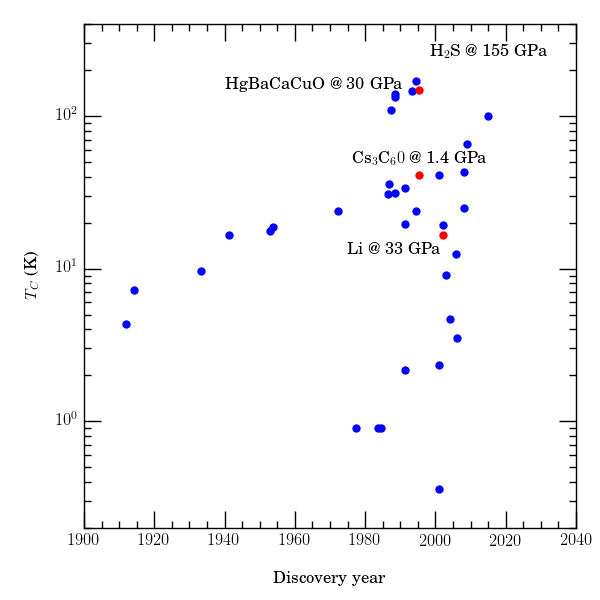
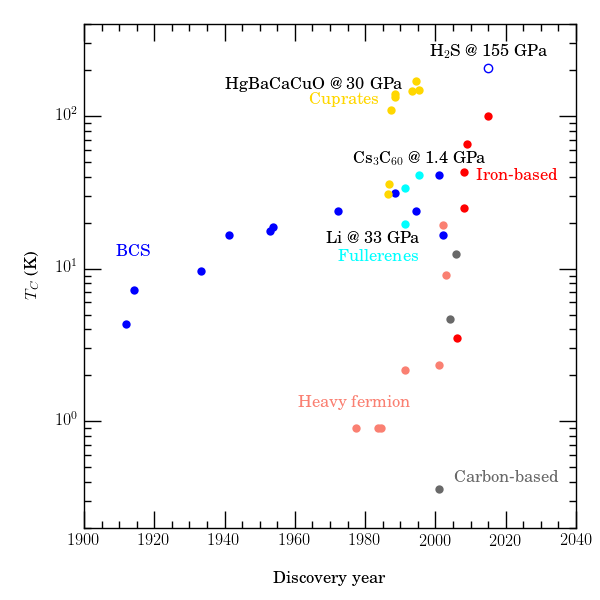
Updates to colors and labeling in sfluid.py.

diff --git a/sfluid.py b/sfluid.py
@@ -51,44 +51,53 @@ def tptr(x):
         tptr=x*2-200
     return tptr
 
-dat=[['Hg',0.299320,10.859729,1,1],
-     ['Pb',0.353741,18.099548,1,1],
-     ['Nb',0.829932,23.981900,1,1],
-     ['NbN',1.034014,41.628959,1,1],
-     ['V3Si',1.319728,43.891403,1,1],
-     ['Nb3Sn',1.346939,46.606335,1,1],
-     ['Nb3Ge',1.809524,59.728507,1,1],
-     ['BKBO',3.687075,77.828054,1,1],
-     [r'YbPd2B$_2$C',4.870748,59.276018,1,1],
-     ['MgB2',6.217687,103.167421,1,1],
-     [r'CeCu$_2$Si$_2$',1.931973,2.262443,1,1],
-     ['UBe13',2.707483,2.262443,1,1],
-     ['UPt3',2.911565,2.262443,1,1],
-     ['UPd2Al3',4.285714,5.429864,1,1],
-     ['CeCoIn5',6.231293,5.882353,1,1],
-     ['PuCoGa5',6.421769,48.416290,1,1],
-     ['PuRhGa5',6.612245,22.624434,1,1],
-     ['LaBaCuO',3.306122,77.375566,1,1],
-     ['YBaCuO',3.496599,154.298643,1,1],
-     ['BiSrCaCuO',3.687075,166.515837,1,1],
-     ['TlBaCaCuO',3.700680,169.230769,1,1],
-     ['HgBaCaCuO',4.666667,172.398190,1,1],
-     ['HgTlBaCaCuO',4.870748,185.067873,1,1],
-     ['LaSrCuO',3.350000,90,1,1],
-     ['K3C60',4.272109,48.868778,1,1],
-     ['RbCsC60',4.272109,84.615385,1,1],
-     ['CNT',6.217687,0.904977,1,1],
-     ['diamond',6.816327,11.764706,1,1],
-     ['CNT',7.197279,31.221719,1,1],
-     ['LaOFeP',7.200000,8.750000,1,1],
-     ['LaOFFeAs',7.600000,62.500000,1,1],
-     ['SrFFeAs',7.800000,132.579186,1,1],
-     ['FeSe film',9,150,1,1],
-     ['SmOFFeAs',7.600000,107.500000,1,1],
-     [r'Cs$_3$C$_60$ @ 1.4~GPa',5.061224,102.262443,1,1.25],
-     ['HgBaCaCuO @ 30~GPa',5.047619,173.755656,0.985,1.1],
-     ['Li @ 33~GPa',6.421769,41.628959,0.993,0.8],
-     [r'H$_2$S @ 155~GPa',9,203,1,1.25]]
+dat=[
+# BCS superconductors
+    ['Hg',0.299320,10.859729,1,1,1,0],
+    ['Pb',0.353741,18.099548,1,1,1,0],
+    ['Nb',0.829932,23.981900,1,1,1,0],
+    ['NbN',1.034014,41.628959,1,1,1,0],
+    [r'V_3Si',1.319728,43.891403,1,1,1,0],
+    [r'Nb_3Sn',1.346939,46.606335,1,1,1,0],
+    [r'Nb_3Ge',1.809524,59.728507,1,1,1,0],
+    ['BKBO',3.687075,77.828054,1,1,1,0],
+    [r'YbPd2B$_2$C',4.870748,59.276018,1,1,1,0],
+    [r'MgB_2',6.217687,103.167421,1,1,1,0],
+# Heavy fermion superconductors
+    [r'CeCu$_2$Si$_2$',1.931973,2.262443,2,1,1,0],
+    [r'UBe_{13}',2.707483,2.262443,2,1,1,0],
+    [r'UPt_3',2.911565,2.262443,2,1,1,0],
+    [r'UPd_2Al_3',4.285714,5.429864,2,1,1,0],
+    [r'CeCoIn_5',6.231293,5.882353,2,1,1,0],
+    [r'PuCoGa_5',6.421769,48.416290,2,1,1,0],
+    [r'PuRhGa_5',6.612245,22.624434,2,1,1,0],
+# Cuprates
+    ['LaBaCuO',3.306122,77.375566,3,1,1,0],
+    ['YBaCuO',3.496599,154.298643,3,1,1,0],
+    ['BiSrCaCuO',3.687075,166.515837,3,1,1,0],
+    ['TlBaCaCuO',3.700680,169.230769,3,1,1,0],
+    ['HgBaCaCuO',4.666667,172.398190,3,1,1,0],
+    ['HgTlBaCaCuO',4.870748,185.067873,3,1,1,0],
+    ['HgBaCaCuO @ 30~GPa',5.047619,173.755656,3,0.985,1.1,1],
+    ['LaSrCuO',3.350000,90,3,1,1,0],
+# Fullerenes
+    [r'K_3C_{60}',4.272109,48.868778,4,1,1,0],
+    [r'RbCsC_{60}',4.272109,84.615385,4,1,1,0],
+    [r'Cs$_3$C$_{60}$ @ 1.4~GPa',5.061224,102.262443,4,1,1.25,1],
+# Carbon nanotubes and diamonds
+    ['CNT',6.217687,0.904977,5,1,1,0],
+    ['diamond',6.816327,11.764706,5,1,1,0],
+    ['CNT',7.197279,31.221719,5,1,1,0],
+# Iron-based superconductors
+     ['LaOFeP',7.200000,8.750000,6,1,1,0],
+     ['LaOFFeAs',7.600000,62.500000,6,1,1,0],
+     ['SrFFeAs',7.800000,132.579186,6,1,1,0],
+     ['FeSe film',9,150,6,1,1,0],
+     ['SmOFFeAs',7.600000,107.500000,6,1,1,0],
+# BCS superconductors at high pressure
+     ['Li @ 33~GPa',6.421769,41.628959,7,0.99,0.95,1],
+     [r'H$_2$S @ 155~GPa',9,203,7,1,1.25,1]
+]
 
 # Initial figure setup
 
@@ -116,13 +125,46 @@ x_scale=1.0
 plot.xlim([1900,2040])
 plot.ylim([2.0e-1,4.0e2])
         
-for i in range(0,len(dat)-4):
-    plot.semilogy(time(dat[i][1]),tptr(dat[i][2]),
-                  marker='o',mfc='Blue',mew=0)
-    if i<3:
-        ax.text(time(dat[i][1])*x_scale*dat[i][3],
-                tptr(dat[i][2])*y_scale*dat[i][4],dat[i][0],
-                fontsize=12,va='center',ha='center')
+for i in range(0,len(dat)):
+    if dat[i][6]==0:
+        if dat[i][3]==1:
+            plot.semilogy(time(dat[i][1]),tptr(dat[i][2]),
+                          marker='o',mfc='blue',mew=0)
+        elif dat[i][3]==2:
+            plot.semilogy(time(dat[i][1]),tptr(dat[i][2]),
+                          marker='o',mfc='salmon',mew=0)
+        elif dat[i][3]==3:
+            plot.semilogy(time(dat[i][1]),tptr(dat[i][2]),
+                          marker='o',mfc='gold',mew=0)
+        elif dat[i][3]==4:
+            plot.semilogy(time(dat[i][1]),tptr(dat[i][2]),
+                          marker='o',mfc='cyan',mew=0)
+        elif dat[i][3]==5:
+            plot.semilogy(time(dat[i][1]),tptr(dat[i][2]),
+                          marker='o',mfc='dimgray',mew=0)
+        elif dat[i][3]==6:
+            plot.semilogy(time(dat[i][1]),tptr(dat[i][2]),
+                          marker='o',mfc='red',mew=0)
+        elif dat[i][3]==7:
+            plot.semilogy(time(dat[i][1]),tptr(dat[i][2]),
+                      marker='o',mfc='blue',mew=0)
+        if i<3:
+            ax.text(time(dat[i][1])*x_scale*dat[i][4],
+                    tptr(dat[i][2])*y_scale*dat[i][5],dat[i][0],
+                    fontsize=12,va='center',ha='center',color='blue')
+
+ax.text(0.1,0.55,'BCS',transform=ax.transAxes,
+        fontsize=12,va='center',ha='center',color='blue')
+ax.text(0.55,0.25,'Heavy fermion',transform=ax.transAxes,
+        fontsize=12,va='center',ha='center',color='salmon')
+ax.text(0.53,0.85,'Cuprates',transform=ax.transAxes,
+        fontsize=12,va='center',ha='center',color='gold')
+ax.text(0.6,0.54,'Fullerenes',transform=ax.transAxes,
+        fontsize=12,va='center',ha='center',color='cyan')
+ax.text(0.86,0.1,'Carbon-based',transform=ax.transAxes,
+        fontsize=12,va='center',ha='center',color='dimgray')
+ax.text(0.88,0.7,'Iron-based',transform=ax.transAxes,
+        fontsize=12,va='center',ha='center',color='red')
 
 ax.text(0.5,-0.1,'Discovery year',
         transform=ax.transAxes,
@@ -131,6 +173,7 @@ ax.text(-0.1,0.5,r'$T_C$ (K)',rotation=90,
         transform=ax.transAxes,
         fontsize=12,va='center',ha='center')
 plot.savefig('sfluid1.png')        
+#plot.show()
 
 plot.clf()
 
@@ -148,19 +191,57 @@ plot.xlim([1900,2040])
 plot.ylim([2.0e-1,4.0e2])
 
 for i in range(0,len(dat)):
-    if i>=len(dat)-4:
-        ax.text(time(dat[i][1])*x_scale*dat[i][3],
-                tptr(dat[i][2])*y_scale*dat[i][4],dat[i][0],
-                fontsize=12,va='center',ha='center')
-        if i==len(dat)-1:
-            plot.semilogy(time(dat[i][1]),tptr(dat[i][2]),
-                          marker='o',mec='red',mfc='none',mew=0)
-        else:
-            plot.semilogy(time(dat[i][1]),tptr(dat[i][2]),
-                          marker='o',mfc='red',mew=0)
-    else:
+    if dat[i][6]==1:
+        if dat[i][3]==3:
+            ax.text(time(dat[i][1])*x_scale*dat[i][4],
+                    tptr(dat[i][2])*y_scale*dat[i][5],dat[i][0],
+                    fontsize=12,va='center',ha='center',color='black')
+        elif dat[i][3]==4:
+            ax.text(time(dat[i][1])*x_scale*dat[i][4],
+                    tptr(dat[i][2])*y_scale*dat[i][5],dat[i][0],
+                    fontsize=12,va='center',ha='center',color='black')
+        elif dat[i][3]==7:
+            ax.text(time(dat[i][1])*x_scale*dat[i][4],
+                    tptr(dat[i][2])*y_scale*dat[i][5],dat[i][0],
+                    fontsize=12,va='center',ha='center',color='black')
+    if dat[i][3]==1:
         plot.semilogy(time(dat[i][1]),tptr(dat[i][2]),
                       marker='o',mfc='blue',mew=0)
+    elif dat[i][3]==2:
+        plot.semilogy(time(dat[i][1]),tptr(dat[i][2]),
+                      marker='o',mfc='salmon',mew=0)
+    elif dat[i][3]==3:
+        plot.semilogy(time(dat[i][1]),tptr(dat[i][2]),
+                      marker='o',mfc='gold',mew=0)
+    elif dat[i][3]==4:
+        plot.semilogy(time(dat[i][1]),tptr(dat[i][2]),
+                      marker='o',mfc='cyan',mew=0)
+    elif dat[i][3]==5:
+        plot.semilogy(time(dat[i][1]),tptr(dat[i][2]),
+                      marker='o',mfc='dimgray',mew=0)
+    elif dat[i][3]==6:
+        plot.semilogy(time(dat[i][1]),tptr(dat[i][2]),
+                      marker='o',mfc='red',mew=0)
+    elif dat[i][3]==7:
+        if i==len(dat)-1:
+            plot.semilogy(time(dat[i][1]),tptr(dat[i][2]),
+                          marker='o',mfc='none',mew=1,mec='blue')
+        else:
+            plot.semilogy(time(dat[i][1]),tptr(dat[i][2]),
+                          marker='o',mfc='blue',mew=0)
+
+ax.text(0.1,0.55,'BCS',transform=ax.transAxes,
+        fontsize=12,va='center',ha='center',color='blue')
+ax.text(0.55,0.25,'Heavy fermion',transform=ax.transAxes,
+        fontsize=12,va='center',ha='center',color='salmon')
+ax.text(0.53,0.85,'Cuprates',transform=ax.transAxes,
+        fontsize=12,va='center',ha='center',color='gold')
+ax.text(0.6,0.54,'Fullerenes',transform=ax.transAxes,
+        fontsize=12,va='center',ha='center',color='cyan')
+ax.text(0.86,0.1,'Carbon-based',transform=ax.transAxes,
+        fontsize=12,va='center',ha='center',color='dimgray')
+ax.text(0.88,0.7,'Iron-based',transform=ax.transAxes,
+        fontsize=12,va='center',ha='center',color='red')
 
 ax.text(0.5,-0.1,'Discovery year',
         transform=ax.transAxes,
@@ -170,6 +251,7 @@ ax.text(-0.1,0.5,r'$T_C$ (K)',rotation=90,
         fontsize=12,va='center',ha='center')
 
 plot.savefig('sfluid2.png')        
+#plot.show()
 
 plot.clf()
 
@@ -184,16 +266,31 @@ plot.xlim([1900,2040])
 plot.ylim([2.0e-1,4.0e11])
 
 for i in range(0,len(dat)):
-    if i>=len(dat)-4:
-        if i==len(dat)-1:
-            plot.semilogy(time(dat[i][1]),tptr(dat[i][2]),
-                          marker='o',mec='red',mfc='none',mew=1)
-        else:
-            plot.semilogy(time(dat[i][1]),tptr(dat[i][2]),
-                          marker='o',mfc='red',mew=0)
-    else:
+    if dat[i][3]==1:
         plot.semilogy(time(dat[i][1]),tptr(dat[i][2]),
                       marker='o',mfc='blue',mew=0)
+    elif dat[i][3]==2:
+        plot.semilogy(time(dat[i][1]),tptr(dat[i][2]),
+                      marker='o',mfc='salmon',mew=0)
+    elif dat[i][3]==3:
+        plot.semilogy(time(dat[i][1]),tptr(dat[i][2]),
+                      marker='o',mfc='gold',mew=0)
+    elif dat[i][3]==4:
+        plot.semilogy(time(dat[i][1]),tptr(dat[i][2]),
+                      marker='o',mfc='cyan',mew=0)
+    elif dat[i][3]==5:
+        plot.semilogy(time(dat[i][1]),tptr(dat[i][2]),
+                      marker='o',mfc='dimgray',mew=0)
+    elif dat[i][3]==6:
+        plot.semilogy(time(dat[i][1]),tptr(dat[i][2]),
+                      marker='o',mfc='red',mew=0)
+    elif dat[i][3]==7:
+        if i==len(dat)-1:
+            plot.semilogy(time(dat[i][1]),tptr(dat[i][2]),
+                          marker='o',mec='blue',mew=1,mfc='none')
+        else:
+            plot.semilogy(time(dat[i][1]),tptr(dat[i][2]),
+                          marker='o',mfc='blue',mew=0)
 
 x_scale=1.004
 y_scale=1.0
@@ -231,5 +328,5 @@ ax.text(-0.1,0.5,r'$T_C$ (K)',rotation=90,
         fontsize=12,va='center',ha='center')
 
 plot.savefig('sfluid3.png')        
-plot.show()
+#plot.show()
 
